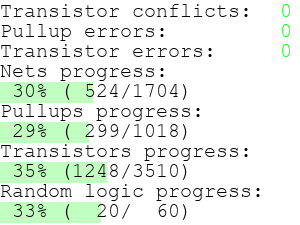
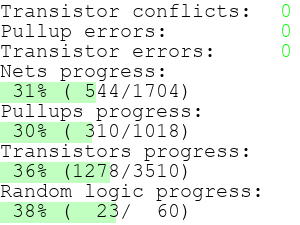
Added random logic dpc20-dpc22

diff --git a/schematic.py b/schematic.py
@@ -501,7 +501,8 @@ def load():
       w=Wire(n,w1,w2)
       wires.add(w)
       popnp(0,0,w)
-
+  for i in tiles.layers:
+    i.dirty=False
 
 
 load()
@@ -647,7 +648,7 @@ def input_complete(inp,mode):
           i.dirty=True
       else:
         tiles.layerid(span).dirty=True
-    #save()
+    save()
     w1sq=None
     w2sq=None
     return
@@ -795,7 +796,7 @@ while running:
             i.dirty=True
         else:
           tiles.layerid(span).dirty=True
-        #save()
+        save()
         w1sq=None
         w2sq=None
         mode=MODE_idle
